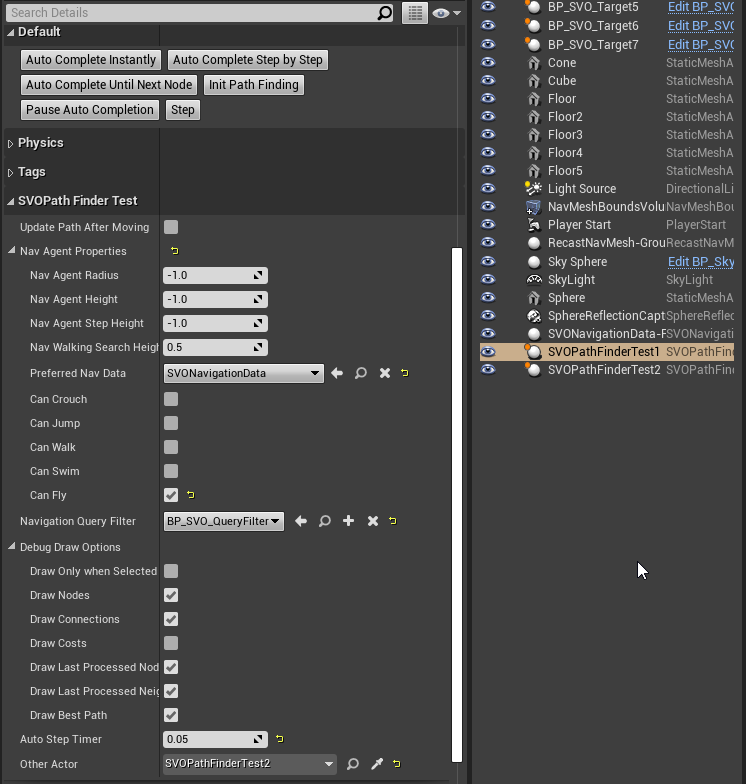
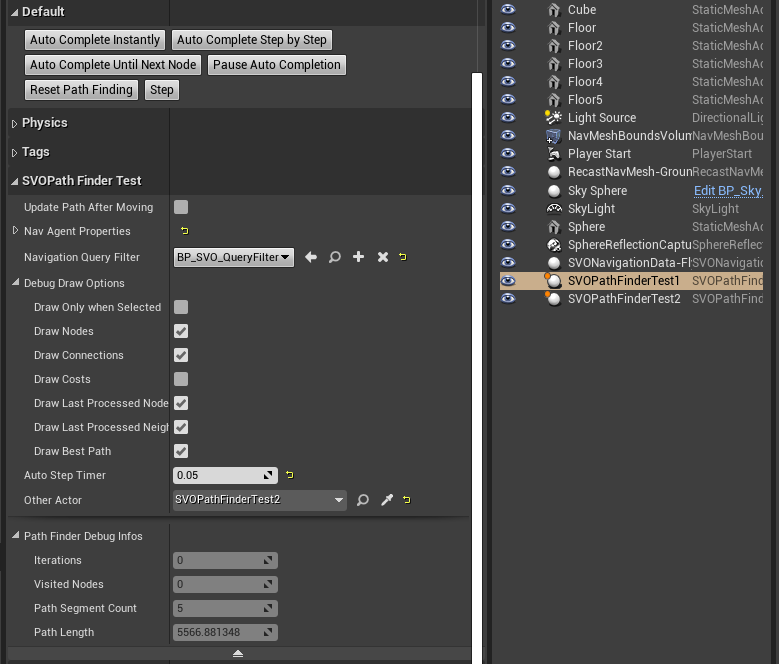
Finished first draft

diff --git a/README.md b/README.md
@@ -14,9 +14,11 @@ Regeneration of the navigation data is automatically done whenever you move obje
 
 ## Different pathfinding algorithms
 
-* A-Star: The fastest one, but this produces very jaggy paths.
-* Theta-Star: The slowest one. It uses line-of-sight checks to remove un-necessary steps from the path.
-* Lazy-Theta-Star: The default one. It's faster than Theta-Star as it generates way more line of sight checks, but the produced path is slightly less optimal.
+* A-Star
+* Theta-Star
+* Lazy-Theta-Star
+
+You'll find more informations about pathfinding below.
 
 ## Debug visualizations
 
@@ -77,19 +79,19 @@ Explanations of the `Debug Infos` section are lower in this document, but you ca
 
 The last step is to setup the flying actors. 
 
-You need to have an actor which inherit from `ACharacter`. You then need to update its `Agent Properties` to select `SVONavigationData` as their `Preferred Nav Data` class.
+The easiest is to have an actor which inherit from `ACharacter`. You then need to select the character movement component, head to the `Nav Movement` section, and select `SVONavigationData` as their `Preferred Nav Data` class.
 
-SCREENSHOT NEEDED
+![Navigation Query Filter](Docs/charactermovement_navmovementcapabilities.png)
 
-You need to create a blueprint from the class `SVONavigationQueryFilter`.
+The next step is to create a blueprint from the class `SVONavigationQueryFilter`.
 
 ![Navigation Query Filter](Docs/navigationqueryfilter.png)
 
-That class defines the options to use by the pathfinder. Each option may lead to more options to set up.
+That class defines the options to use by the pathfinder. You can find the explanations of the various options below.
 
 You can set this asset as the `Default Nav Filter Class` of the `AIController` of your flying actor.
 
-SCREENSHOT NEEDED
+![Navigation Query Filter](Docs/aicontroller_defaultnavfilterclass.png)
 
 When it's done, you can for example use a behavior tree to move your actor, such as the following one:
 
@@ -101,12 +103,135 @@ You can visualize the paths used by your flying agents by checking `Enable Drawi
 
 # Pathfinding options
 
+As explained before, the navigation query filter allows you to define the pathfinding algorithm and options to use for your flying actor.
+
+The first option is the path finder class. You can choose between 3 options:
+
+* [A*](https://www.wikiwand.com/en/A*_search_algorithm) : this is a well known algorithm which is very fast to compute a path, but has the downside of producing very jaggy paths, as the path points will all be the centers of the voxels.
+![A*](Docs/navigationqueryfilter_astar.png)
+
+* [Theta*](https://www.wikiwand.com/en/Theta*): this algorithm uses A* as a base, but adds line-of-sight checks to allow the path to take shortcuts between points. It produces the most accurate paths of the 3, but is also the more expensive to compute.
+![Theta*](Docs/navigationqueryfilter_thetastar.png)
+
+* [Lazy Theta*](http://idm-lab.org/bib/abstracts/papers/aaai10b.pdf): this is the default algorithm of the plug-in. It's a variation of Theta* which produces slightly less optimal paths, but is much less expensive as it generates much less line-of-sight checks.
+![Lazy Theta*](Docs/navigationqueryfilter_lazythetastar.png)
+
+Theta* and Lazy Theta* both use Line of sight checks to shorten the path. The plug-in proposes 3 different methods to compute those LoS.
+
+* Octree Traversal : this is a numeric algorithm based on the academic paper [An Efficient Parametric Algorithm for Octree Traversal](http://wscg.zcu.cz/wscg2000/Papers_2000/X31.pdf). This is the fastest of all 3 functions, and is the default.
+![Octree Traversal](Docs/navigationqueryfilter_thetastar_octreetraversal.png)
+
+* Physics ray / sphere casts : this function uses the physics engine built-in RayCast / Sphere cast functions. It's less precise than the octree traversal function, but since it was implemented first, it was kept in case it's useful to anyone.
+![Ray Cast](Docs/navigationqueryfilter_thetastar_raycast_ray.png)
+![Sphere Cast](Docs/navigationqueryfilter_thetastar_raycast_sphere.png)
+
+The next option of the query filter is `Traversal Cost Calculator`.
+
+This option allows you to define how the path finder will compute how much it costs to go from a position to another. There are 2 options:
+
+* Distance: this will simply return the distance between the 2 positions.
+* Fixed: this will always return the same cost. From the Game AI Pro 3 article linked in the introduction, `This means that no matter how big the node is, traveling through it has the same cost. This effectively biases the search even more toward exploring through large nodes.`
+
+The next options are for the heuristic cost.
+
+`Heuristic Calculator` allows you to define how the path finder will compute how much it costs to go from a position to the target destination. You can choose between 2 options:
+
+* Euclidean: this will simply return the distance between a position and the target destination.
+* Manhattan: this will return the distance between the 2 positions using [taxicab geometry](https://www.wikiwand.com/en/Taxicab_geometry).
+
+`Heuristic Scale` can be used to force the algorithm to prefer exploring nodes that it thinks are closer to the goal.
+
+The last option, `Use Node Size Compensation`, is another optimization suggested by the paper. If enabled, both the traversal cost and the heuristic cost will be adjusted so that it's cheaper to go through big nodes than through small ones.
+
+You can easily see the impact of all those options on the pathfinding computation by using the path finder test actor. See below for informations.
+
 # Debugging
+
+The plug-in comes with lots of visualization options to help you understand how the data is structured, and how to best set up the pathfinding.
 
 ## SVO Data Visualization
 
+To see these visualizations, you first need to enable the `Navigation` visualization in the viewport.
+
+![Navigation Flag](Docs/viewport_show_navigation.png)
+
+Then you need to select the SVONavigationData actor in the world outliner and check the `Enable Drawing` flag.
+
+* `Debug Draw Bounds` : displays a white cube which represents the real size of the navigation data.
+
+![Navigation Data Bounds](Docs/viewport_bounds.png)
+
+* `Debug Draw Occluded Voxels` and `Debug Draw Free Voxels` will display yellow cubes for the occluded voxels and green cubes for the free voxels, if you choose to draw the layers or the sub nodes.
+
+* `Debug Draw Layers`: displays the intermediate layers of the octree, down to layer 0, which is the leaf nodes layer.
+
+Layer 3
+![Layer 3 - Occluded Voxels](Docs/viewport_layer3.png)
+
+Layer 2
+![Layer 2 - Occluded Voxels](Docs/viewport_layer2.png)
+
+Layer 1
+![Layer 1 - Occluded Voxels](Docs/viewport_layer1.png)
+![Layer 1 - Occluded Voxels](Docs/viewport_layer1_withfreevoxels.png)
+
+Layer 0
+![Layer 0 - Occluded Voxels](Docs/viewport_layer0.png)
+![Layer 0 - Occluded Voxels](Docs/viewport_layer0_withfreevoxels.png)
+
+SubNodes
+![SubNodes - Occluded Voxels](Docs/viewport_subnodes.png)
+![SubNodes - Occluded Voxels](Docs/viewport_subnodes_withfreevoxels.png)
+
+* `Debug Draw Node Address` will display the coordinates of each voxel in the layer you selected, or the subnodes.
+
+![Draw Node Address](Docs/viewport_viewnodeaddresses.png)
+
+* `Debug Draw Morton Code` will display the morton code of each voxel in the layer you selected, or the subnodes.
+
+![Draw Morton Codes](Docs/viewport_viewmortoncodes.png)
+
+* `Debug Draw Active Paths` can be used while the game is running in the editor, and will display all the paths being used by your actors in the navigation data bounds.
+
+![Draw Active Paths](Docs/viewport_viewactivepaths.png)
+
 ## Pathfinding Visualization
 
-## Console commands (???)
+To test the pathfinding options, you can drag'n drop 2 actors of type `SVOPathFinderTest` in your world. 
 
-To display the mem used for ex
+Then select one of them, and set the other one as the `Other Actor`.
+
+You can then set the `Preferred Nav Data` to `SVONavigationData` and the `Navigation Query Filter` to the blueprint class you created earlier.
+
+![PathFinderTest](Docs/pathfindertest.png)
+
+From there, you can use the buttons from one of the actors to initiate a pathfinding computation.
+
+* `Auto Complete Instantly` will generate the path as soon as you click the button, and will display the result in the viewport
+
+![PathFinderTest - Complete Instantly](Docs/pathfindertest_completeinstantly.png)
+
+* `Auto Complete Step by Step` will show the algorithm working by processing each node one after each other after a small delay (which is configurable using the option `Auto Step Timer`). You can pause the execution with the button `Pause Auto Completion`.
+
+![PathFinderTest - Step by Step](Docs/pathfindertest_stepbystep.gif)
+
+* `Auto Complete Until Next Node` will process one node at a time, with all its neighbors, until a new node is pushed on the stack of nodes to process.
+
+To compare the performance of the different pathfinding algorithms, you can use the `Path Finder Debug Infos` section which is filled with interesting informations after a path has been found.
+
+For example, here are 3 benchmarks with various settinsgs for the Lazy Theta*:
+
+Traversal Costs by distance, Heuristic cost by manhattan
+![PathFinderTest - Result1](Docs/pathfindertest_result1.png)
+
+Traversal Costs fixed, Heuristic cost by manhattan
+![PathFinderTest - Result2](Docs/pathfindertest_result2.png)
+
+Traversal Costs by distance, Heuristic cost by distance
+![PathFinderTest - Result3](Docs/pathfindertest_result3.png)
+
+## Console commands
+
+You can use the console command `CountNavMem` to display in the `OutputLog` the memory used by the navigation data.
+
+![CountNavMem](Docs/countnavmem.png)
